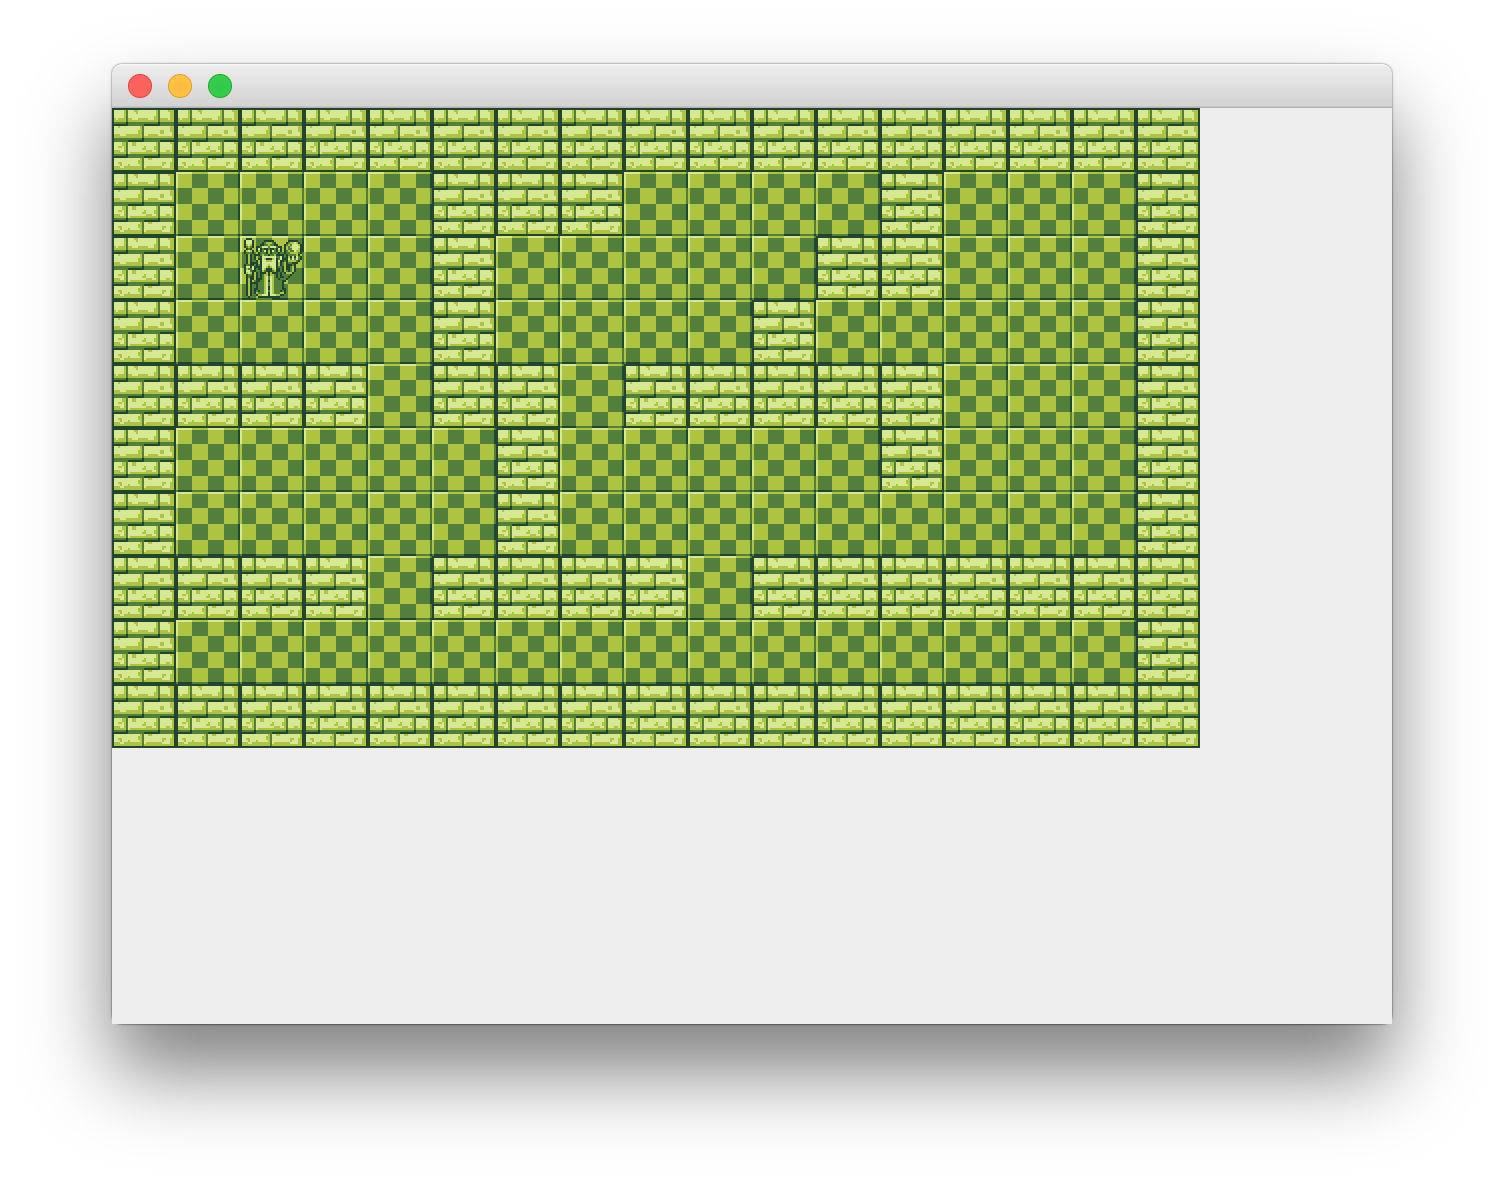
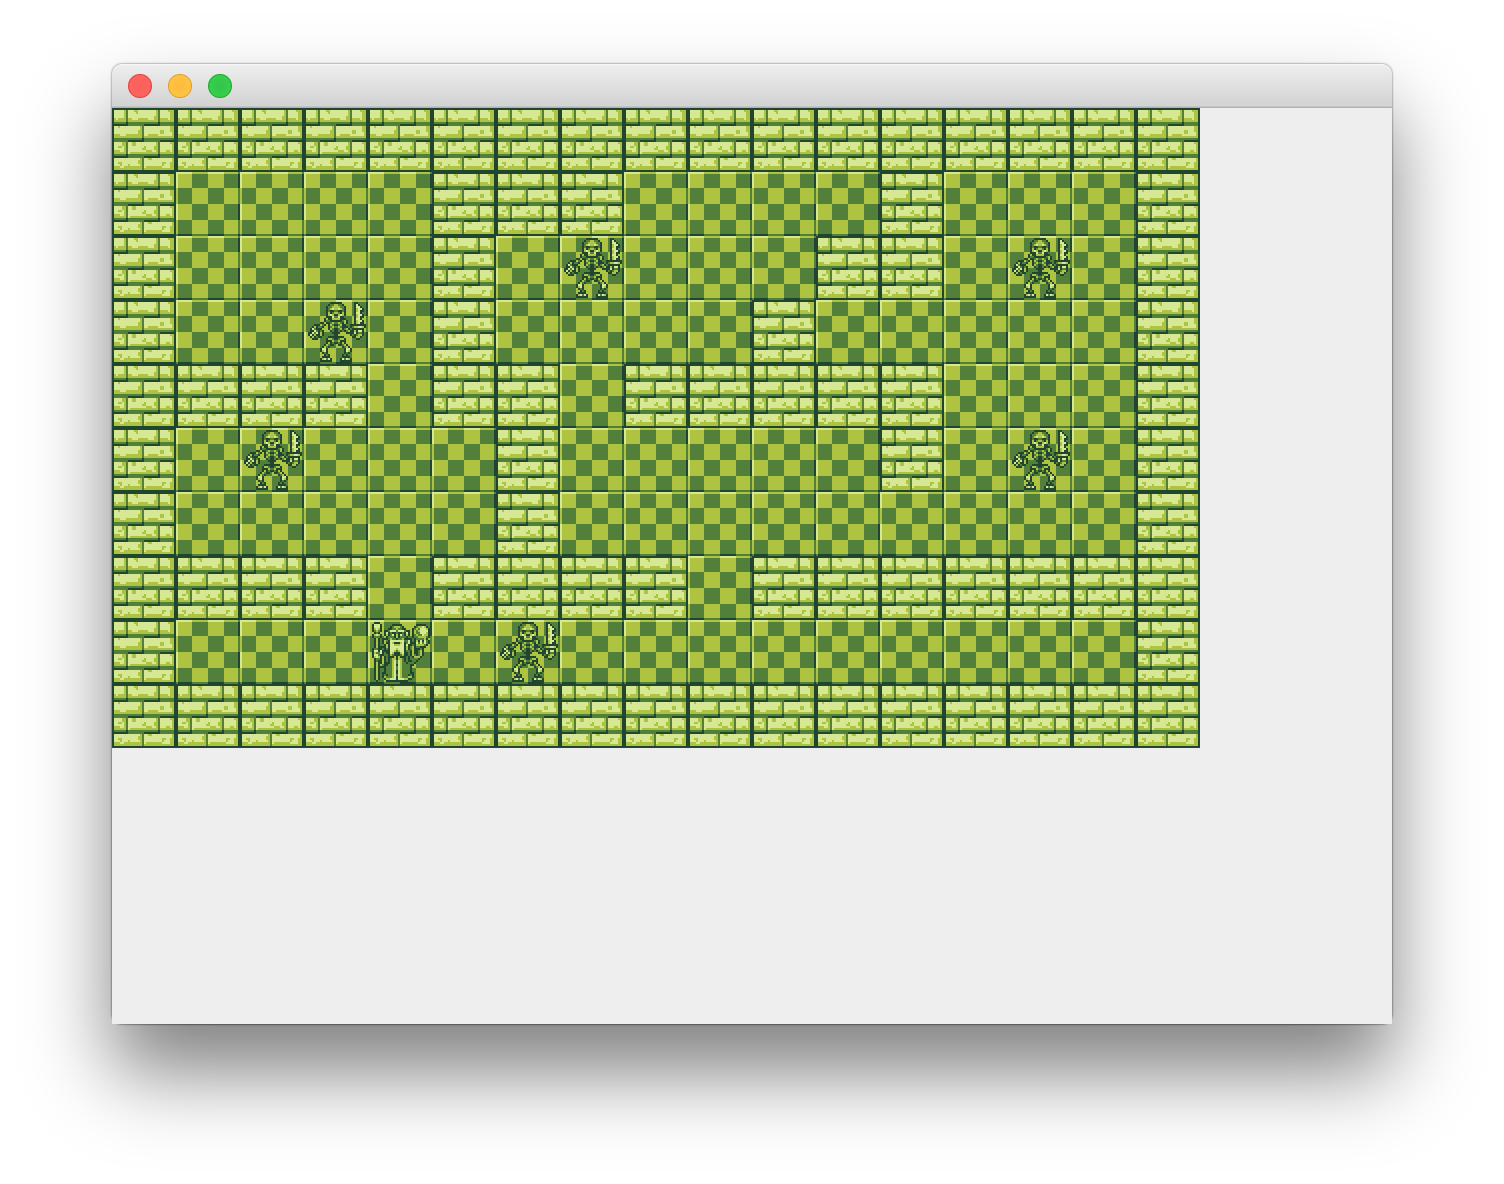
add skeletons

diff --git a/src/main/java/dungndrug/level/Level.java b/src/main/java/dungndrug/level/Level.java
@@ -1,16 +1,17 @@
 package dungndrug.level;
 
+import java.util.*;
 import java.nio.file.Paths;
 import java.nio.file.Files;
 import java.io.IOException;
 
 import dungndrug.user.Hero;
 import dungndrug.level.Cell;
+import dungndrug.creep.Skeleton;
 
 public class Level {
-  public final int X_BLOCKS = 20;
-  public final int Y_BLOCKS = 15;
-  public Cell[][] cells = new Cell[X_BLOCKS][Y_BLOCKS];
+  public List<List<List<Cell>>> cells = new ArrayList<List<List<Cell>>>();
+  public List<Skeleton> creeps = new ArrayList<Skeleton>();
   private Hero hero;
 
   public Level(String filePath) {
@@ -20,19 +21,30 @@ public class Level {
     try {
       for (String line : Files.readAllLines(Paths.get(filePath))) {
         line = line.trim();
+        List<List<Cell>> lineCells = new ArrayList<List<Cell>>();
+        cells.add(lineCells);
+
         for (int x = 0; x < line.length(); ++x) {
+          List<Cell> cellStack = new ArrayList<Cell>();
+          lineCells.add(cellStack);
+          cellStack.add(new Cell(x, y));
+
           switch (line.charAt(x)) {
             case '#':
-              this.cells[x][y] = new Block(x, y);
+              cellStack.add(new Block(x, y));
+              break;
+            case 's':
+              cellStack.add(new Skeleton(x, y, this));
               break;
             case '@':
-              this.cells[x][y] = new Cell(x, y);
               this.hero = new Hero(x, y, this);
+              cellStack.add(this.hero);
               break;
             default:
-              this.cells[x][y] = new Cell(x, y);
+              break;
           }
         }
+
         ++y;
       }
     } catch(IOException e) {
@@ -42,10 +54,29 @@ public class Level {
   }
 
   public boolean isEmpty(int x, int y) {
-    return this.cells[x][y].isEmpty;
+    boolean isEmpty = true;
+
+    for (int i = 0; i < this.cells.get(x).get(y).size(); ++i) {
+      if (! this.cells.get(x).get(y).get(i).isEmpty) {
+        isEmpty = false;
+      }
+    }
+
+    return isEmpty;
   }
 
   public Hero getHero() {
     return hero;
+  }
+
+  public void moveCell(Cell cell, int toX, int toY) {
+    List fromCell = this.cells.get(cell.getY()).get(cell.getX());
+    for (int i = 0; i < fromCell.size(); ++i) {
+      if (fromCell.get(i) == cell) {
+        fromCell.remove(i);
+        break;
+      }
+    }
+    this.cells.get(toX).get(toY).add(cell);
   }
 }

diff --git a/src/main/java/dungndrug/creep/Skeleton.java b/src/main/java/dungndrug/creep/Skeleton.java
@@ -1,0 +1,54 @@
+package dungndrug.creep;
+
+import javax.swing.ImageIcon;
+import java.awt.Graphics;
+
+import dungndrug.level.Block;
+import dungndrug.level.Level;
+
+
+public class Skeleton extends Block {
+  static String imageFile = "data/image/skeleton.png";
+
+  // TODO
+  static int maxHp = 10;
+  static int aliveTries = 3;
+
+  protected int hp;
+  protected int speed = 3;
+  protected boolean isDead = false;
+  protected Level mapLevel;
+
+  public Skeleton(int x, int y, Level level) {
+    super(x, y);
+    isEmpty = false;
+    ImageIcon icon = new ImageIcon(this.imageFile);
+    this.image = icon.getImage();
+    this.mapLevel = level;
+  }
+
+  public void gotHit(int hp) {
+    this.hp -= hp;
+
+    if (this.hp < -this.maxHp) {
+      this.isDead = true;
+    }
+  }
+
+  @Override
+  public void render(Graphics g) {
+    g.drawImage(this.image, SIZE * this.x, SIZE * this.y, this);
+  }
+
+  public boolean move(int delta_x, int delta_y) {
+    if (! this.mapLevel.isEmpty(this.y + delta_y, this.x + delta_x)) {
+      return false;
+    }
+    this.mapLevel.moveCell(this, this.y + delta_y, this.x + delta_x);
+
+    this.x += delta_x;
+    this.y += delta_y;
+
+    return true;
+  }
+}

diff --git a/src/main/java/dungndrug/level/Board.java b/src/main/java/dungndrug/level/Board.java
@@ -51,10 +51,10 @@ public class Board extends JPanel implements ActionListener {
   public void paintComponent(Graphics g) {
     super.paintComponent(g);
 
-    for (int x = 0; x < level.cells.length; ++x) {
-      for (int y = 0; y < level.cells[x].length; ++y) {
-        if (level.cells[x][y] != null) {
-          level.cells[x][y].render(g);
+    for (int x = 0; x < level.cells.size(); ++x) {
+      for (int y = 0; y < level.cells.get(x).size(); ++y) {
+        for (int i = 0; i < level.cells.get(x).get(y).size(); ++i) {
+          level.cells.get(x).get(y).get(i).render(g);
         }
       }
     }
@@ -94,6 +94,18 @@ public class Board extends JPanel implements ActionListener {
         hero.move(0, 1);
         break;
     }
-    System.out.println("User pos: " + hero.getX() + hero.getY());
+
+    // Debug
+    System.out.println("Pos: " + hero.getX() + ":" + hero.getY());
+    for (int x = 0; x < level.cells.size(); ++x) {
+      for (int y = 0; y < level.cells.get(x).size(); ++y) {
+        if (! level.isEmpty(x, y)) {
+          System.out.print("X");
+        } else {
+          System.out.print(" ");
+        }
+      }
+      System.out.println("");
+    }
   }
 }

diff --git a/src/main/java/dungndrug/user/Hero.java b/src/main/java/dungndrug/user/Hero.java
@@ -6,36 +6,18 @@ import java.awt.Graphics;
 
 import dungndrug.level.Level;
 import dungndrug.fight.Bolt;
-import dungndrug.level.Block;
+import dungndrug.creep.Skeleton;
 
-public class Hero extends Block {
+public class Hero extends Skeleton {
   private String imageFile = "data/image/mage.png";
-  private Level mapLevel;
   private Bolt bolt;
   private boolean boltFired = false;
 
   public Hero(int x, int y, Level level) {
-    super(x, y);
+    super(x, y, level);
     isEmpty = false;
-    this.mapLevel = level;
     ImageIcon icon = new ImageIcon(this.imageFile);
     this.image = icon.getImage();
-  }
-
-  public boolean move(int delta_x, int delta_y) {
-    if (! this.mapLevel.isEmpty(x + delta_x, y + delta_y)) {
-      return false;
-    }
-
-    x += delta_x;
-    y += delta_y;
-
-    return true;
-  }
-
-  public void hit(int x, int y) {
-    bolt = new Bolt(this.x, this.y, x, y);
-    boltFired = true;
   }
 
   @Override
@@ -46,5 +28,10 @@ public class Hero extends Block {
       bolt.render(g);
       boltFired = bolt.isStillFlying();
     }
+  }
+
+  public void hit(int x, int y) {
+    bolt = new Bolt(this.x, this.y, x, y);
+    boltFired = true;
   }
 }

diff --git a/readme.md b/readme.md
@@ -3,3 +3,6 @@
 Just trying to make dnd-like game with java.
 
 ![preview](img/preview.png)
+
+Looking for artist. Thx to [Jerom](https://opengameart.org/content/32x32-fantasy-tileset)
+for this excellent art!
